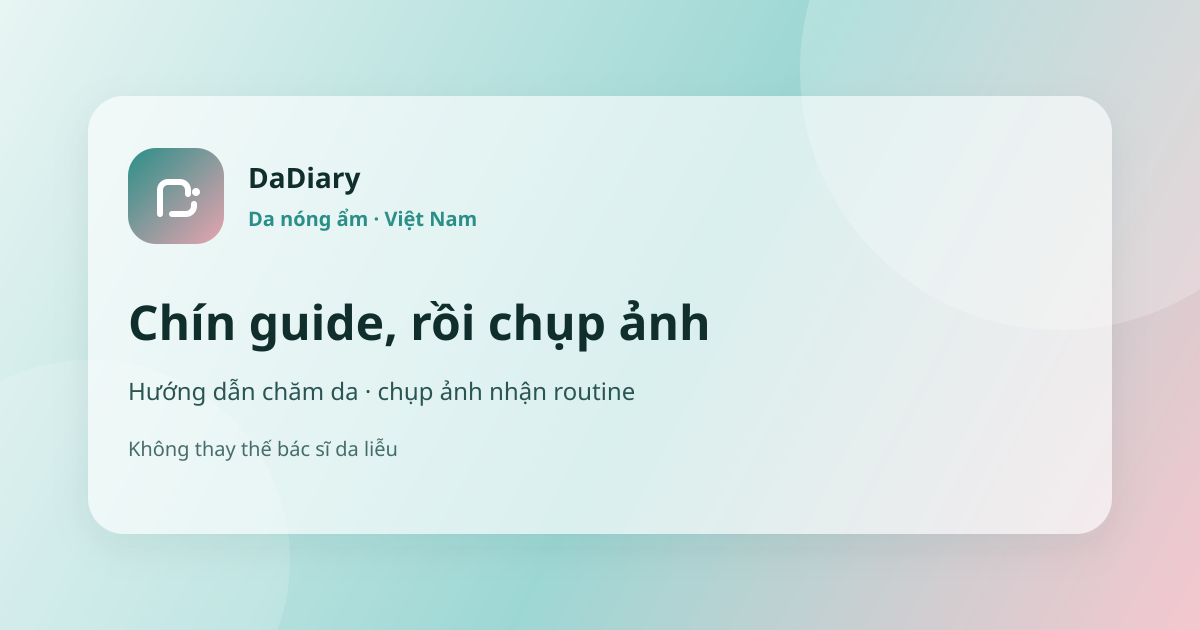
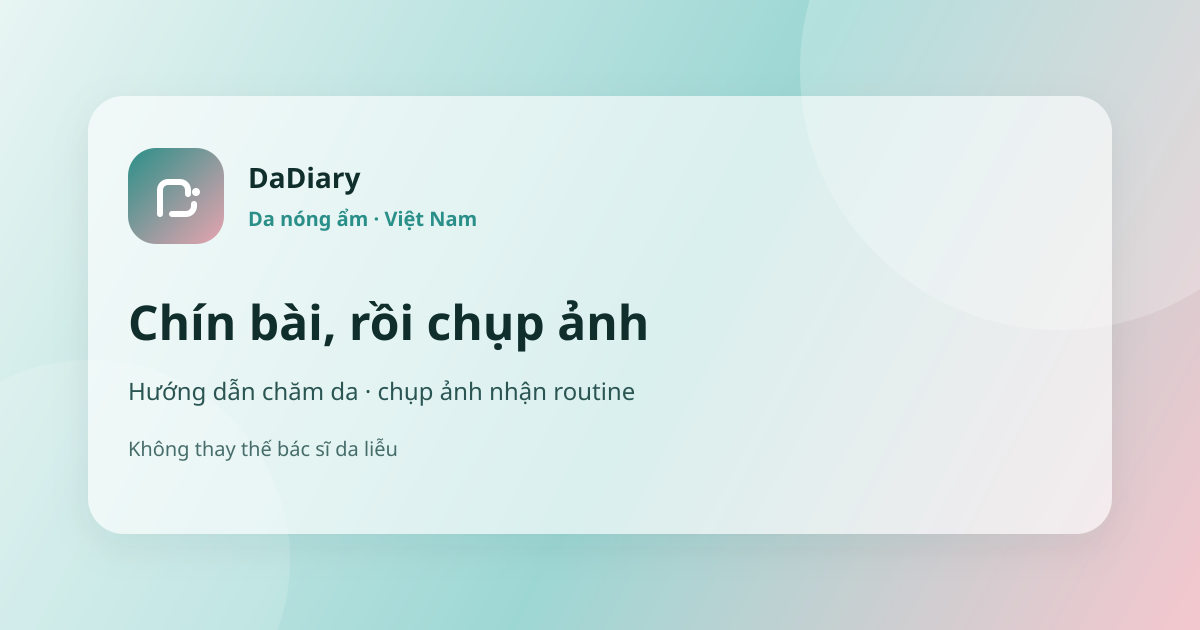
Rewrite leaked SEO jargon in public guide and pricing copy. (#11)
Replace thin-content notes (50 bài mỏng, Climate hub) with everyday
Vietnamese and matching English. Keep Beta/medical disclaimers and
leave prices unchanged.

Changed region(s): [[0.185, 0.4825, 0.5858, 0.573]]

diff --git a/lib/guides/hub.ts b/lib/guides/hub.ts
@@ -101,20 +101,20 @@ const HUB: Record<
   Omit<ClimateHubCopy, "clusters" | "ogImage" | "path" | "datePublished" | "dateModified">
 > = {
   vi: {
-    title: "Chăm da nóng ẩm Việt Nam: 9 guide + routine từ ảnh · DaDiary",
+    title: "Chăm da nóng ẩm Việt Nam: 9 bài, rồi chụp ảnh nhận routine · DaDiary",
     description:
-      "Nắng xe máy, mưa ẩm, máy lạnh một ngày. Chín guide theo loại da và việc hay gặp — rồi chụp ảnh nhận routine. DaDiary Beta: gợi ý, không chẩn bệnh.",
+      "Nắng xe máy, mưa ẩm, máy lạnh trong một ngày. Chín bài theo loại da và việc hay gặp — rồi chụp ảnh nhận routine. DaDiary Beta: gợi ý, không chẩn bệnh.",
     heading: "Chăm da nóng ẩm ở Việt Nam",
-    kicker: "Hub khí hậu",
+    kicker: "Nắng ẩm Việt Nam",
     lede:
-      "Bạn không cần 50 bài mỏng. Chín guide dưới đây gom việc hay gặp khi da sống nắng ẩm: dầu, khô, dễ đỏ, mụn, thâm, SPF, routine ngắn, retinol chậm, và ngày văn phòng. Đọc xong, chụp một ảnh để nhận routine khởi đầu — đăng ký sau khi thấy gợi ý. DaDiary đang Beta: tham khảo, không phải phòng khám.",
+      "Da sống nắng ẩm hay gặp dầu, khô, dễ đỏ, mụn hay thâm. Chín bài dưới đây nói từng việc: kem chống nắng, routine ngắn, retinol chậm, và ngày văn phòng. Đọc xong, chụp một ảnh để nhận routine khởi đầu. Đăng ký sau khi thấy gợi ý. DaDiary đang Beta: tham khảo, không phải phòng khám.",
     climateHeading: "Một ngày có thể đủ ba khí hậu",
     climateParagraphs: [
       "Sáng: mũ, nắng, kem chống nắng. Trưa: vài phút ra đường. Chiều: máy lạnh, T-zone bóng hoặc má căng. Tối: muốn ‘tẩy sạch cả ngày’ nên rửa mạnh.",
-      "Dầu không phải da bẩn. Khô không phải phải rửa đến kít. Đỏ không tự thành chẩn đoán. Mục tiêu chung: thói quen mỏng chịu được thứ Tư mệt, SPF còn đó, biết khi nào đi khám.",
-      "Trang này không kê đơn, không hứa hết mụn hay hết thâm trong bảy ngày, không bịa review. Nếu da đau, có mủ, sưng lan — gặp bác sĩ, đừng thay bằng một hub.",
+      "Dầu không phải da bẩn. Khô không phải phải rửa đến kít. Đỏ không tự thành chẩn đoán. Mục tiêu chung: thói quen ngắn chịu được thứ Tư mệt, SPF còn đó, biết khi nào đi khám.",
+      "Trang này không kê đơn, không hứa hết mụn hay hết thâm trong bảy ngày, không bịa review. Nếu da đau, có mủ, sưng lan — gặp bác sĩ. Một trang hướng dẫn không thay được khám.",
     ],
-    howToPickHeading: "Nên mở guide nào trước",
+    howToPickHeading: "Nên mở bài nào trước",
     howToPickParagraphs: [
       "Chưa có routine: bắt đầu bài 3–4 bước, rồi kem chống nắng. Đang bóng T-zone: da dầu hoặc da dầu văn phòng. Má căng, nẻ khóe: da khô. Dễ rát sau chai mới: da nhạy cảm — lùi hoạt chất.",
       "Mụn đang viêm hoặc hay nặn: bài mụn trước bài thâm. Muốn thử retinol: chỉ sau khi rửa–dưỡng–SPF đã giữ được, và da không đang nẻ.",
@@ -133,23 +133,23 @@ const HUB: Record<
       {
         question: "Tôi phải đọc hết rồi mới được chụp ảnh?",
         answer:
-          "Không. Hub này để bạn chọn đúng bài. Ảnh một góc, ánh sáng giống nhau nếu được, đủ để nhận routine khởi đầu. Xem gợi ý rồi hãy lưu tài khoản.",
+          "Không. Trang này để bạn chọn đúng bài. Ảnh một góc, ánh sáng giống nhau nếu được, đủ để nhận routine khởi đầu. Xem gợi ý rồi hãy lưu tài khoản.",
       },
     ],
   },
   en: {
-    title: "Humid-heat skincare in Vietnam: 9 guides + a photo routine · DaDiary",
+    title: "Humid-heat skincare in Vietnam: 9 reads, then a photo routine · DaDiary",
     description:
-      "Motorbike sun, humid rain, air-con in one day. Nine guides by skin type and common jobs — then a photo for a starter routine. DaDiary Beta: tips, not a diagnosis.",
+      "Motorbike sun, humid rain, air-con in one day. Nine reads by skin type and common jobs — then a photo for a starter routine. DaDiary Beta: tips, not a diagnosis.",
     heading: "Skincare for humid heat in Vietnam",
-    kicker: "Climate hub",
+    kicker: "Humid heat",
     lede:
-      "You do not need fifty thin posts. These nine guides cover what humid-heat skin actually meets: oil, dry, easy flush, acne, marks, SPF, a short routine, slow retinol, and office air-con. Then take one photo for a starter routine — sign up after you see it. DaDiary is in Beta: reference tips, not a clinic.",
+      "Humid-heat skin often means oil, dryness, easy flush, acne, or marks. These nine reads cover sunscreen, a short routine, slow retinol, and office air-con. Then take one photo for a starter routine. Sign up after you see it. DaDiary is in Beta: reference tips, not a clinic.",
     climateHeading: "One day can hold three climates",
     climateParagraphs: [
       "Morning: a helmet, sun, sunscreen. Midday: a few minutes outside. Afternoon: air-con, a shiny T-zone or tight cheeks. Night: the urge to punish-wash the whole day off.",
-      "Oil is not dirt. Dry is not a reason to wash until it squeaks. Redness is not a diagnosis. The shared aim: a thin habit that survives a tired Wednesday, SPF still on, and a clear line for when to see a clinician.",
-      "This page does not prescribe, does not promise clear skin or faded marks in seven days, and does not invent reviews. Pain, pus, spreading swelling — see a clinician. A hub is not a substitute.",
+      "Oil is not dirt. Dry is not a reason to wash until it squeaks. Redness is not a diagnosis. The shared aim: a light habit that survives a tired Wednesday, SPF still on, and a clear line for when to see a clinician.",
+      "This page does not prescribe, does not promise clear skin or faded marks in seven days, and does not invent reviews. Pain, pus, spreading swelling — see a clinician. This page is not a substitute.",
     ],
     howToPickHeading: "Which guide to open first",
     howToPickParagraphs: [
@@ -170,7 +170,7 @@ const HUB: Record<
       {
         question: "Do I have to read every guide before I take a photo?",
         answer:
-          "No. This hub is so you can pick the right page. One angle, similar light if you can, is enough for a starter routine. See the suggestion, then save an account.",
+          "No. This page is so you can pick the right read. One angle, similar light if you can, is enough for a starter routine. See the suggestion, then save an account.",
       },
     ],
   },

diff --git a/lib/guides/catalog.test.ts b/lib/guides/catalog.test.ts
@@ -222,4 +222,32 @@ describe("guide catalog", () => {
     assert.ok(chrome.climateHubLabel.length > 4);
     assert.ok(chrome.breadcrumbHub.length > 2);
   });
+
+  it("keeps public hub and index copy free of SEO jargon", () => {
+    const banned =
+      /bài mỏng|50 bài|Chín guide|9 guide|thin content|thin posts|fifty thin|Hub khí hậu|Climate hub/i;
+    for (const locale of ["vi", "en"] as const) {
+      const hub = getClimateHub(locale);
+      const chrome = guideChrome(locale);
+      const blob = [
+        hub.title,
+        hub.description,
+        hub.heading,
+        hub.kicker,
+        hub.lede,
+        hub.howToPickHeading,
+        ...hub.climateParagraphs,
+        ...hub.howToPickParagraphs,
+        ...hub.faqs.flatMap((faq) => [faq.question, faq.answer]),
+        ...hub.clusters.flatMap((cluster) => [cluster.heading, cluster.intro]),
+        chrome.indexTitle,
+        chrome.indexDescription,
+        chrome.indexHeading,
+        chrome.indexSub,
+        chrome.climateHubLabel,
+        chrome.breadcrumbHub,
+      ].join("\n");
+      assert.doesNotMatch(blob, banned, `${locale} public guide copy leaked SEO jargon`);
+    }
+  });
 });

diff --git a/lib/guides/catalog.ts b/lib/guides/catalog.ts
@@ -42,7 +42,7 @@ const CHROME: Record<GuideLocale, GuideChrome> = {
   vi: {
     indexTitle: "Hướng dẫn chăm da nóng ẩm · DaDiary",
     indexDescription:
-      "Chín guide cho da dầu, da khô, da nhạy, mụn, thâm, SPF, routine người mới, retinol chậm, và ngày văn phòng máy lạnh — rồi chụp ảnh để nhận routine khởi đầu từ AI Coach.",
+      "Chín bài cho da dầu, da khô, da nhạy, mụn, thâm, SPF, routine người mới, retinol chậm, và ngày văn phòng máy lạnh — rồi chụp ảnh để nhận routine khởi đầu từ AI Coach.",
     indexHeading: "Hướng dẫn chăm da cho khí hậu nóng ẩm",
     indexSub:
       "Chín bài cho da Việt: dầu, khô, nhạy cảm, mụn, thâm, SPF, routine ngắn, retinol người mới, và ngày máy lạnh. Đọc xong, chụp một ảnh để nhận routine khởi đầu — đăng ký sau khi thấy gợi ý.",

diff --git a/lib/stores/onboarding-store.ts b/lib/stores/onboarding-store.ts
@@ -438,7 +438,7 @@ export function buildStarterPackBullets(s: OnboardingState): string[] {
     lines.push("Xen kẽ hoạt chất (VD: BHA/PHA tối) — luôn kẹp cấp ẩm + phục hồi khi da căng.");
     lines.push("Ghi routine 5–7 ngày để nhìn pattern da, không đổi cùng lúc nhiều sản phẩm.");
   } else if (s.skillMode === "advanced") {
-    lines.push("Tối ưu tầng (layering) có chủ đích; theo dõi pH và thứ tự acid/retinol.");
+    lines.push("Thoa từng lớp có lý do; nhớ thứ tự khi dùng acid hoặc retinol, và da chịu được không.");
     lines.push("So ảnh cùng ánh sáng/góc trước khi kết luận “tiến triển”.");
   }
   if (s.goal && s.goal !== "unsure") {

diff --git a/lib/onboarding/guest-starter.ts b/lib/onboarding/guest-starter.ts
@@ -382,7 +382,7 @@ function weekNoteForPhase(
   }
   if (skillMode === "advanced") {
     return en
-      ? "When layering acids/retinol, go slow and note how skin feels the next day."
+      ? "When you use acids or retinol, go slow and note how skin feels the next day."
       : "Khi xen kẽ acid/retinol, đi chậm và ghi lại cảm giác da hôm sau.";
   }
   return en
